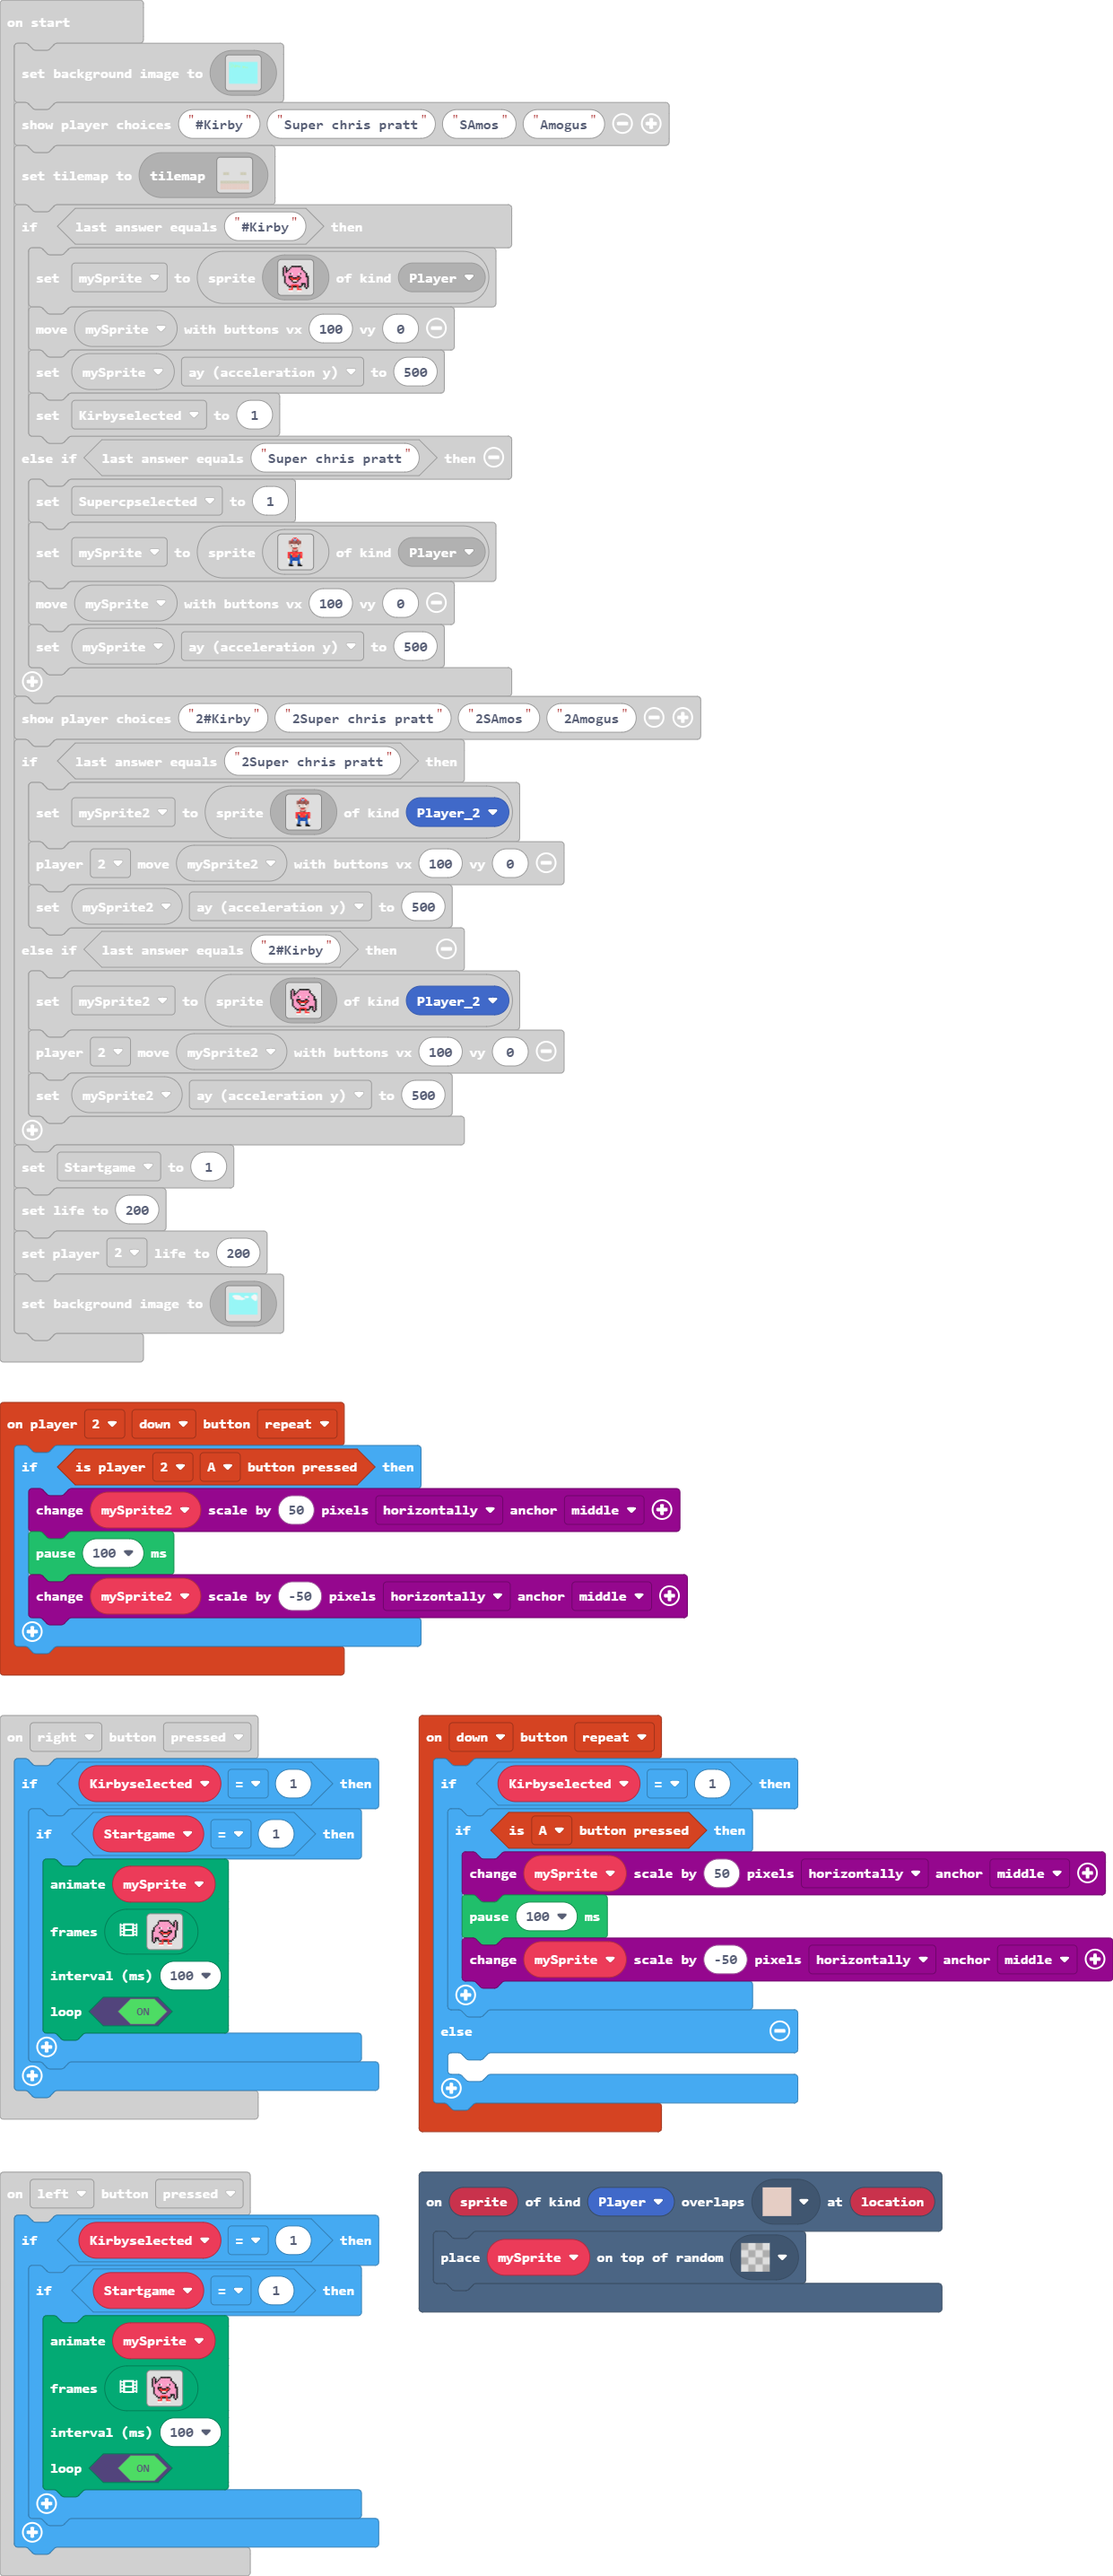
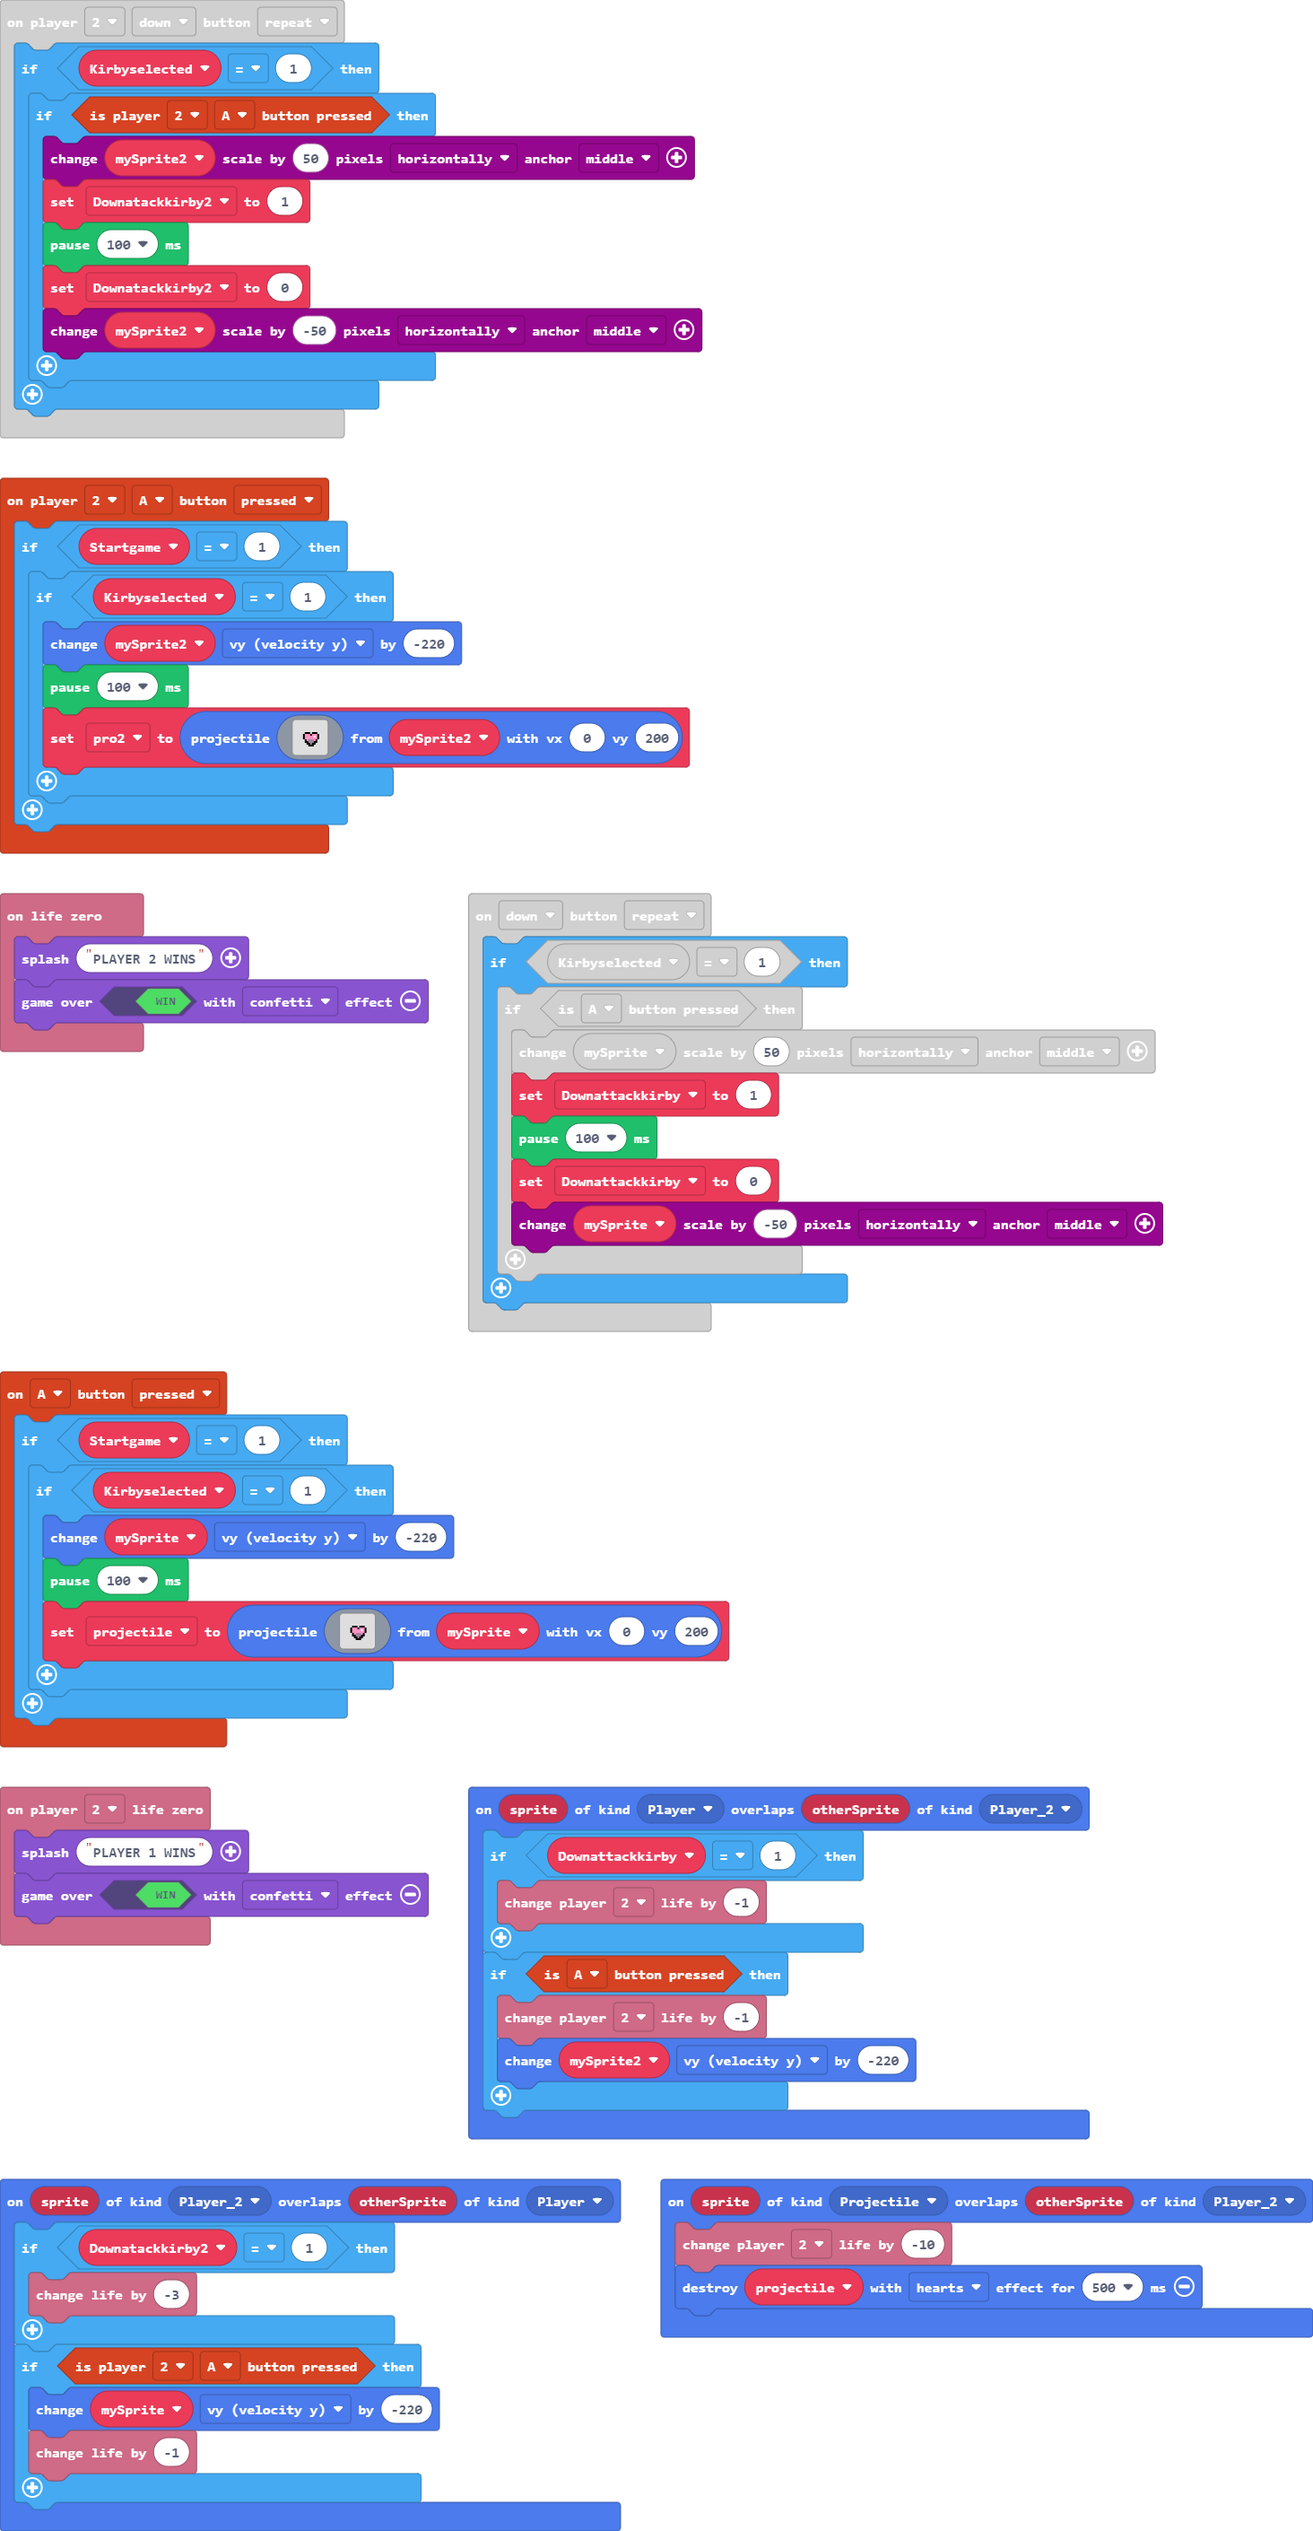
More attacks

diff --git a/main.ts b/main.ts
@@ -1,9 +1,70 @@
 namespace SpriteKind {
     export const Player_2 = SpriteKind.create()
 }
+sprites.onOverlap(SpriteKind.Player, SpriteKind.Player_2, function (sprite, otherSprite) {
+    if (Downattackkirby == 1) {
+        info.player2.changeLifeBy(-1)
+    }
+    if (controller.A.isPressed()) {
+        info.player2.changeLifeBy(-1)
+        mySprite2.vy += -220
+    }
+})
 controller.up.onEvent(ControllerButtonEvent.Pressed, function () {
     if (Startgame == 1) {
         mySprite.vy += -150
+    }
+})
+controller.A.onEvent(ControllerButtonEvent.Pressed, function () {
+    if (Startgame == 1) {
+        if (Kirbyselected == 1) {
+            mySprite.vy += -220
+            pause(100)
+            projectile = sprites.createProjectileFromSprite(img`
+                . . . . . . . . . . . . . . . . 
+                . . . . . . . . . . . . . . . . 
+                . . . . . . . . . . . . . . . . 
+                . . . . . . . . . . . . . . . . 
+                . . . . . . . . . . . . . . . . 
+                . . . . . f f f . f f f . . . . 
+                . . . . f 3 3 3 f 3 3 3 f . . . 
+                . . . . f 3 3 3 3 3 1 3 f . . . 
+                . . . . f 3 3 3 3 3 3 3 f . . . 
+                . . . . . f 3 b b b 3 f . . . . 
+                . . . . . f f b b b f f . . . . 
+                . . . . . . f f b f f . . . . . 
+                . . . . . . . f f f . . . . . . 
+                . . . . . . . . . . . . . . . . 
+                . . . . . . . . . . . . . . . . 
+                . . . . . . . . . . . . . . . . 
+                `, mySprite, 0, 200)
+        }
+    }
+})
+controller.player2.onButtonEvent(ControllerButton.A, ControllerButtonEvent.Pressed, function () {
+    if (Startgame == 1) {
+        if (Kirbyselected == 1) {
+            mySprite2.vy += -220
+            pause(100)
+            pro2 = sprites.createProjectileFromSprite(img`
+                . . . . . . . . . . . . . . . . 
+                . . . . . . . . . . . . . . . . 
+                . . . . . . . . . . . . . . . . 
+                . . . . . . . . . . . . . . . . 
+                . . . . . . . . . . . . . . . . 
+                . . . . . f f f . f f f . . . . 
+                . . . . f 3 3 3 f 3 3 3 f . . . 
+                . . . . f 3 3 3 3 3 1 3 f . . . 
+                . . . . f 3 3 3 3 3 3 3 f . . . 
+                . . . . . f 3 b b b 3 f . . . . 
+                . . . . . f f b b b f f . . . . 
+                . . . . . . f f b f f . . . . . 
+                . . . . . . . f f f . . . . . . 
+                . . . . . . . . . . . . . . . . 
+                . . . . . . . . . . . . . . . . 
+                . . . . . . . . . . . . . . . . 
+                `, mySprite2, 0, 200)
+        }
     }
 })
 controller.left.onEvent(ControllerButtonEvent.Pressed, function () {
@@ -87,6 +148,15 @@ scene.onOverlapTile(SpriteKind.Player, assets.tile`myTile3`, function (sprite, l
 controller.player2.onButtonEvent(ControllerButton.Up, ControllerButtonEvent.Pressed, function () {
     if (Startgame == 1) {
         mySprite2.vy += -150
+    }
+})
+sprites.onOverlap(SpriteKind.Player_2, SpriteKind.Player, function (sprite, otherSprite) {
+    if (Downatackkirby2 == 1) {
+        info.changeLifeBy(-3)
+    }
+    if (controller.player2.isPressed(ControllerButton.A)) {
+        mySprite.vy += -220
+        info.changeLifeBy(-1)
     }
 })
 controller.right.onEvent(ControllerButtonEvent.Pressed, function () {
@@ -237,16 +307,24 @@ controller.player2.onButtonEvent(ControllerButton.Right, ControllerButtonEvent.P
         )
     }
 })
+sprites.onOverlap(SpriteKind.Projectile, SpriteKind.Player_2, function (sprite, otherSprite) {
+    info.player2.changeLifeBy(-10)
+    projectile.destroy(effects.hearts, 500)
+})
 controller.down.onEvent(ControllerButtonEvent.Repeated, function () {
     if (Kirbyselected == 1) {
         if (controller.A.isPressed()) {
             scaling.scaleByPixels(mySprite, 50, ScaleDirection.Horizontally, ScaleAnchor.Middle)
+            Downattackkirby = 1
             pause(100)
+            Downattackkirby = 0
             scaling.scaleByPixels(mySprite, -50, ScaleDirection.Horizontally, ScaleAnchor.Middle)
         }
-    } else {
-    	
     }
+})
+info.onLifeZero(function () {
+    game.splash("PLAYER 2 WINS")
+    game.over(true, effects.confetti)
 })
 controller.player2.onButtonEvent(ControllerButton.Left, ControllerButtonEvent.Pressed, function () {
     if (Startgame == 1) {
@@ -321,13 +399,25 @@ controller.player2.onButtonEvent(ControllerButton.Left, ControllerButtonEvent.Pr
         )
     }
 })
+info.player2.onLifeZero(function () {
+    game.splash("PLAYER 1 WINS")
+    game.over(true, effects.confetti)
+})
 controller.player2.onButtonEvent(ControllerButton.Down, ControllerButtonEvent.Repeated, function () {
-    if (controller.player2.isPressed(ControllerButton.A)) {
-        scaling.scaleByPixels(mySprite2, 50, ScaleDirection.Horizontally, ScaleAnchor.Middle)
-        pause(100)
-        scaling.scaleByPixels(mySprite2, -50, ScaleDirection.Horizontally, ScaleAnchor.Middle)
+    if (Kirbyselected == 1) {
+        if (controller.player2.isPressed(ControllerButton.A)) {
+            scaling.scaleByPixels(mySprite2, 50, ScaleDirection.Horizontally, ScaleAnchor.Middle)
+            Downatackkirby2 = 1
+            pause(100)
+            Downatackkirby2 = 0
+            scaling.scaleByPixels(mySprite2, -50, ScaleDirection.Horizontally, ScaleAnchor.Middle)
+        }
     }
 })
+let Downatackkirby2 = 0
+let pro2: Sprite = null
+let projectile: Sprite = null
+let Downattackkirby = 0
 let Startgame = 0
 let mySprite2: Sprite = null
 let Supercpselected = 0
